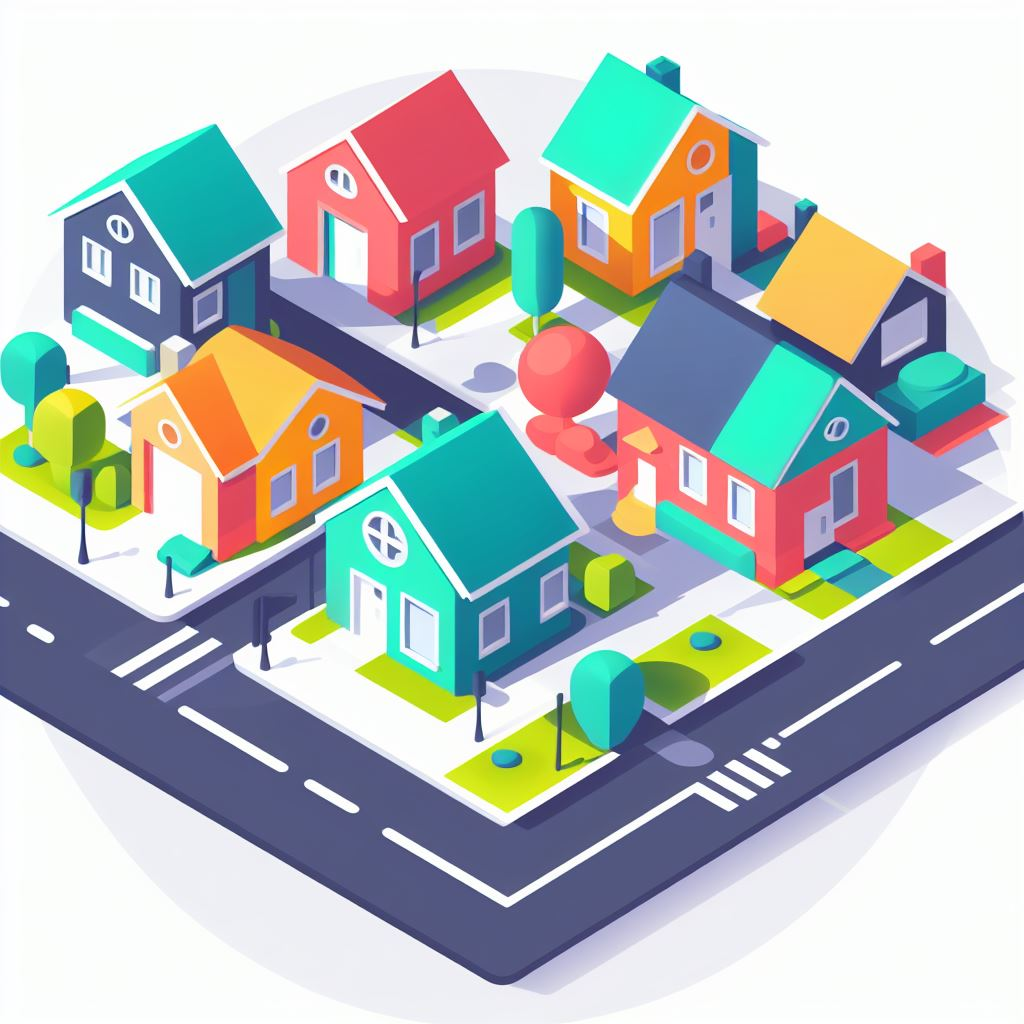
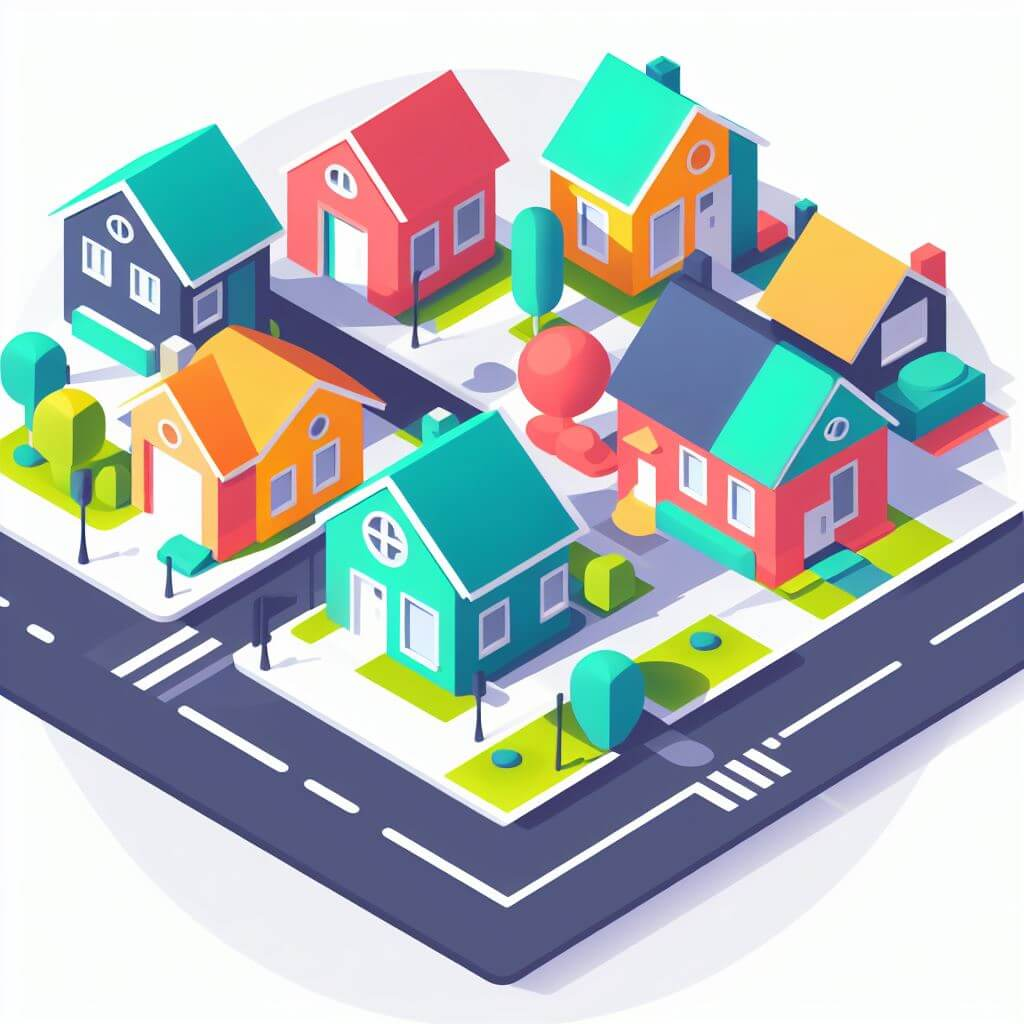
Optimize image and fix manifest

Changed region(s): [[0.6562, 0.5938, 0.6875, 0.625], [0.5625, 0.1875, 0.5938, 0.2188], [0.4688, 0.7188, 0.5, 0.75]]

diff --git a/index.html b/index.html
@@ -2,23 +2,68 @@
 <html lang="es">
   <head>
     <meta charset="UTF-8" />
-    <link rel="manifest" href="/manifest.webmanifest">
-    <link rel="icon" type="image/svg+xml" href="/chicken.svg" />
-    <meta name="viewport" content="width=device-width, initial-scale=1.0" />
-    <link rel="preconnect" href="https://fonts.googleapis.com">
-    <link rel="preconnect" href="https://fonts.gstatic.com" crossorigin>
-    <link href="https://fonts.googleapis.com/css2?family=Inter:wght@300;400;600;700&display=swap" rel="stylesheet">
-    <meta name="description" content="Aplicación para cargar y dar seguimiento a reclamos de los vecinos de la Ciudad de Crespo" />
-    <meta name="keywords" content="Somos Crespo, Crespo, Reclamos, Vecinos, Ciudad, Ciudad de Crespo, App Crespo" />
-    <meta name="author" content="Nicolás Rodriguez" />
-    <meta name="robots" content="index, follow" />
-    <meta name="googlebot" content="index, follow" />
-    <meta name="theme-color" content="#ffcc00">
+    <link
+      rel="manifest"
+      href="/manifest.webmanifest"
+    />
+    <link
+      rel="icon"
+      type="image/svg+xml"
+      href="/chicken.svg"
+    />
+    <link
+      rel="apple-touch-icon"
+      href="/chicken.svg"
+    />
+    <meta
+      name="viewport"
+      content="width=device-width, initial-scale=1.0"
+    />
+    <link
+      rel="preconnect"
+      href="https://fonts.googleapis.com"
+    />
+    <link
+      rel="preconnect"
+      href="https://fonts.gstatic.com"
+      crossorigin
+    />
+    <link
+      href="https://fonts.googleapis.com/css2?family=Inter:wght@300;400;600;700&display=swap"
+      rel="stylesheet"
+    />
+    <meta
+      name="description"
+      content="Aplicación para cargar y dar seguimiento a reclamos de los vecinos de la Ciudad de Crespo"
+    />
+    <meta
+      name="keywords"
+      content="Somos Crespo, Crespo, Reclamos, Vecinos, Ciudad, Ciudad de Crespo, App Crespo"
+    />
+    <meta
+      name="author"
+      content="Nicolás Rodriguez"
+    />
+    <meta
+      name="robots"
+      content="index, follow"
+    />
+    <meta
+      name="googlebot"
+      content="index, follow"
+    />
+    <meta
+      name="theme-color"
+      content="#ffcc00"
+    />
 
     <title>Crespo app</title>
   </head>
   <body>
     <div id="root"></div>
-    <script type="module" src="/src/main.jsx"></script>
+    <script
+      type="module"
+      src="/src/main.jsx"
+    ></script>
   </body>
 </html>
